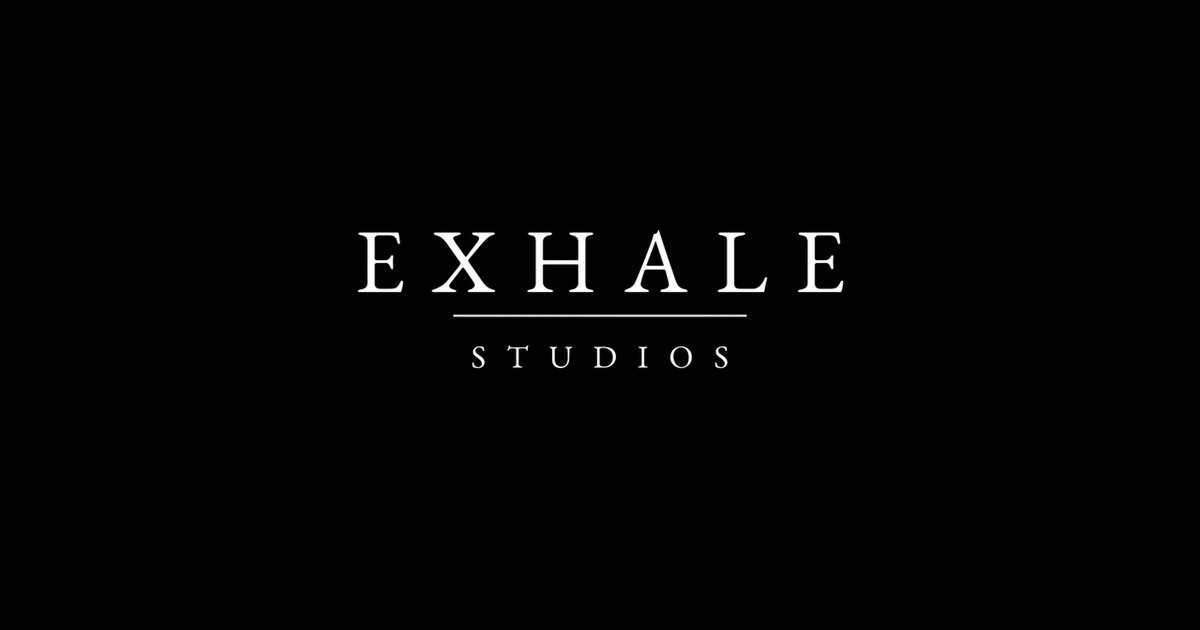
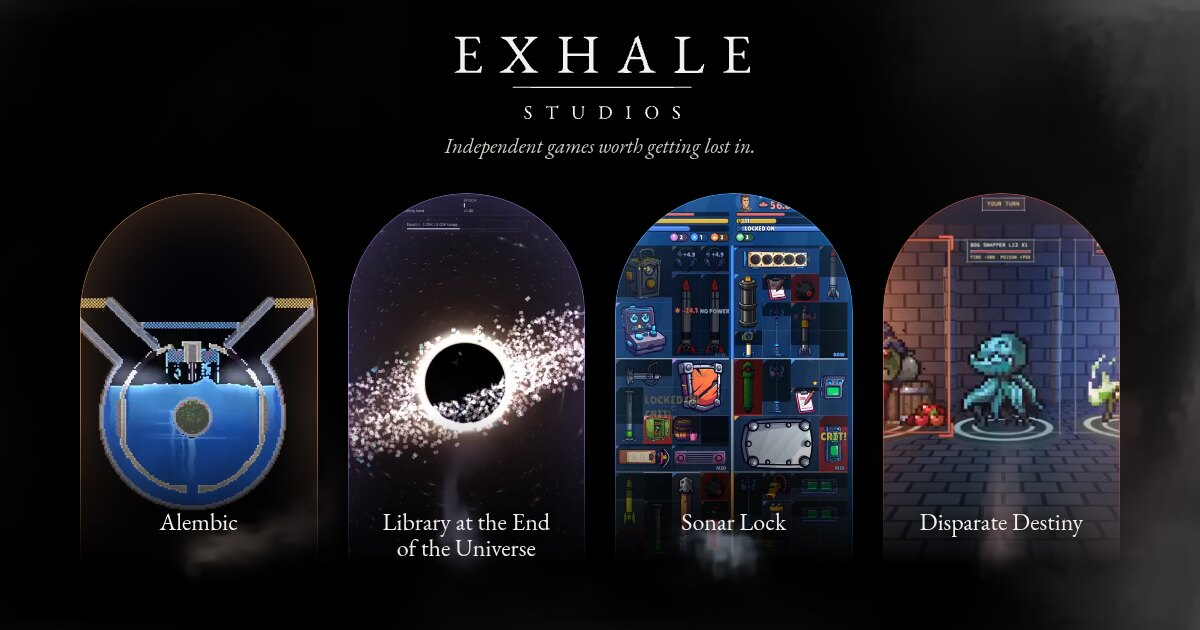
Add a link preview card
Links to the site now unfurl with a 1200x630 card showing the front
page: the wordmark and the four doors. The image address is absolute
(https://www.exhale-studios.dev) because previews ignore relative ones.

Claude-Session: https://claude.ai/code/session_012vDRQxUmZxeqipJo4UsRUr

diff --git a/index.html b/index.html
@@ -10,7 +10,16 @@
 <meta property="og:title" content="Exhale Studios">
 <meta property="og:description" content="Independent games worth getting lost in.">
 <meta property="og:type" content="website">
-<meta property="og:image" content="assets/brand/og.jpg">
+<meta property="og:site_name" content="Exhale Studios">
+<meta property="og:url" content="https://www.exhale-studios.dev/">
+<!-- Link previews (Discord, Slack, social) only show the image if this is a
+     full address, so it has to change if the domain does. -->
+<meta property="og:image" content="https://www.exhale-studios.dev/assets/brand/og.jpg">
+<meta property="og:image:width" content="1200">
+<meta property="og:image:height" content="630">
+<meta property="og:image:alt" content="Exhale Studios: four arched doorways in smoke, one each for Alembic, Library at the End of the Universe, Sonar Lock and Disparate Destiny">
+<meta name="twitter:card" content="summary_large_image">
+<link rel="canonical" href="https://www.exhale-studios.dev/">
 <link rel="icon" type="image/png" href="assets/brand/favicon.png">
 <link rel="apple-touch-icon" href="assets/brand/apple-touch-icon.png">
 <link rel="preload" href="assets/fonts/eb-garamond.woff2" as="font" type="font/woff2" crossorigin>
